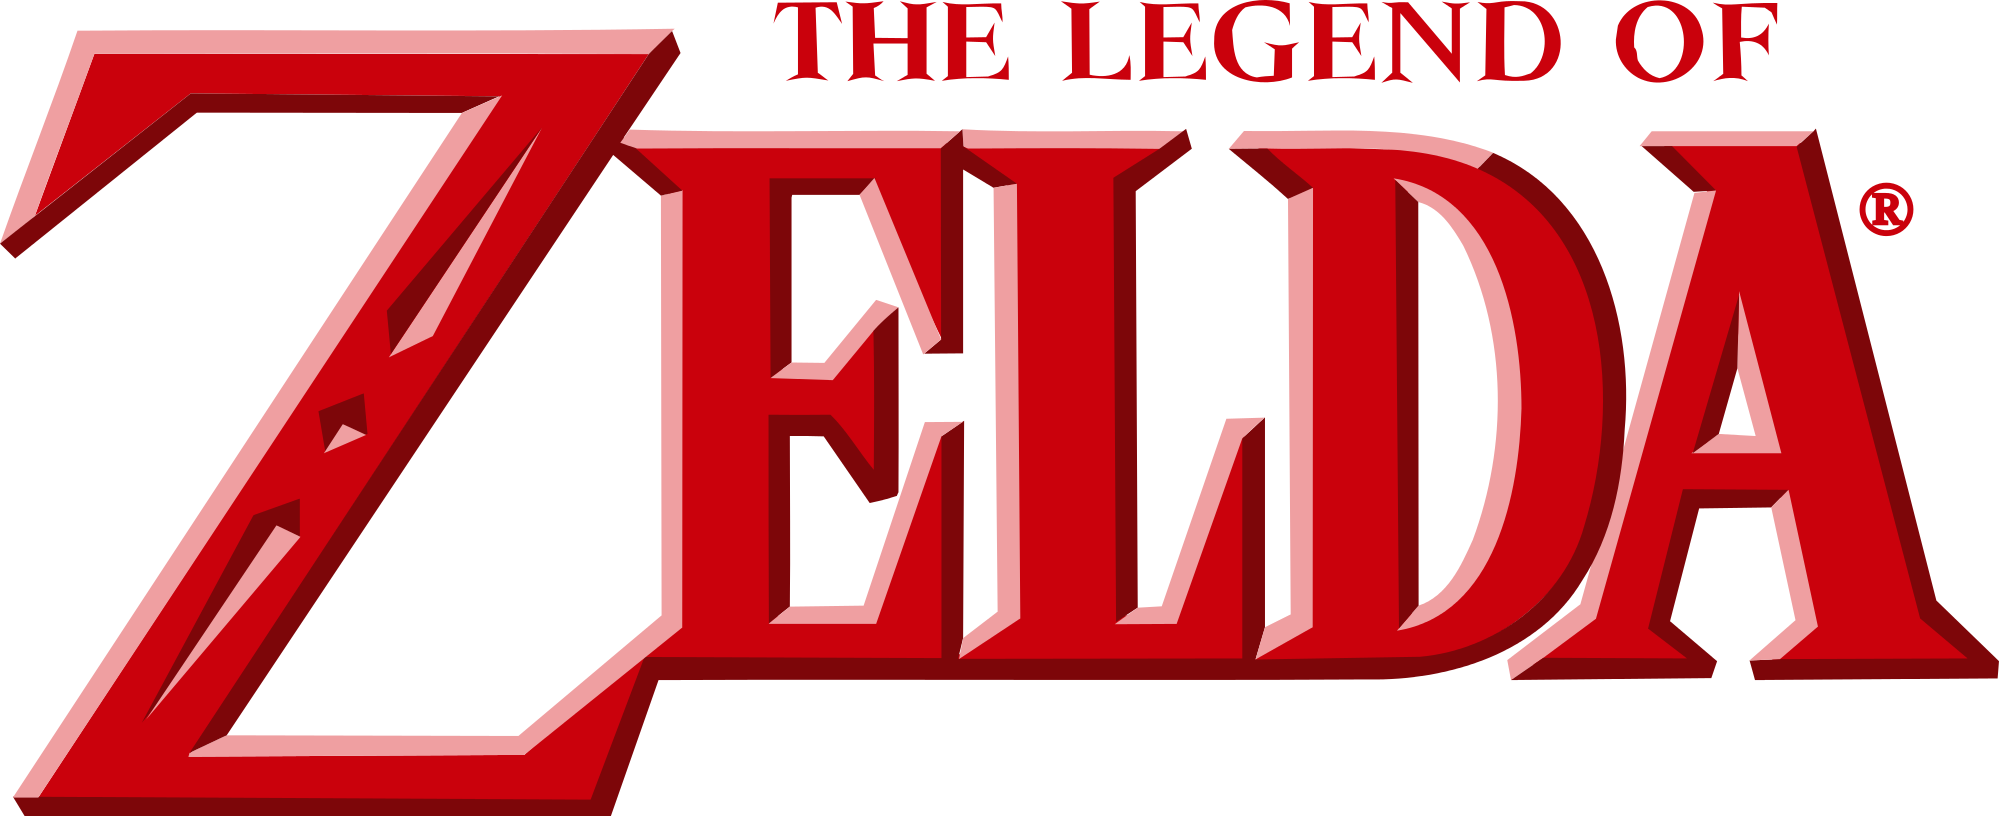
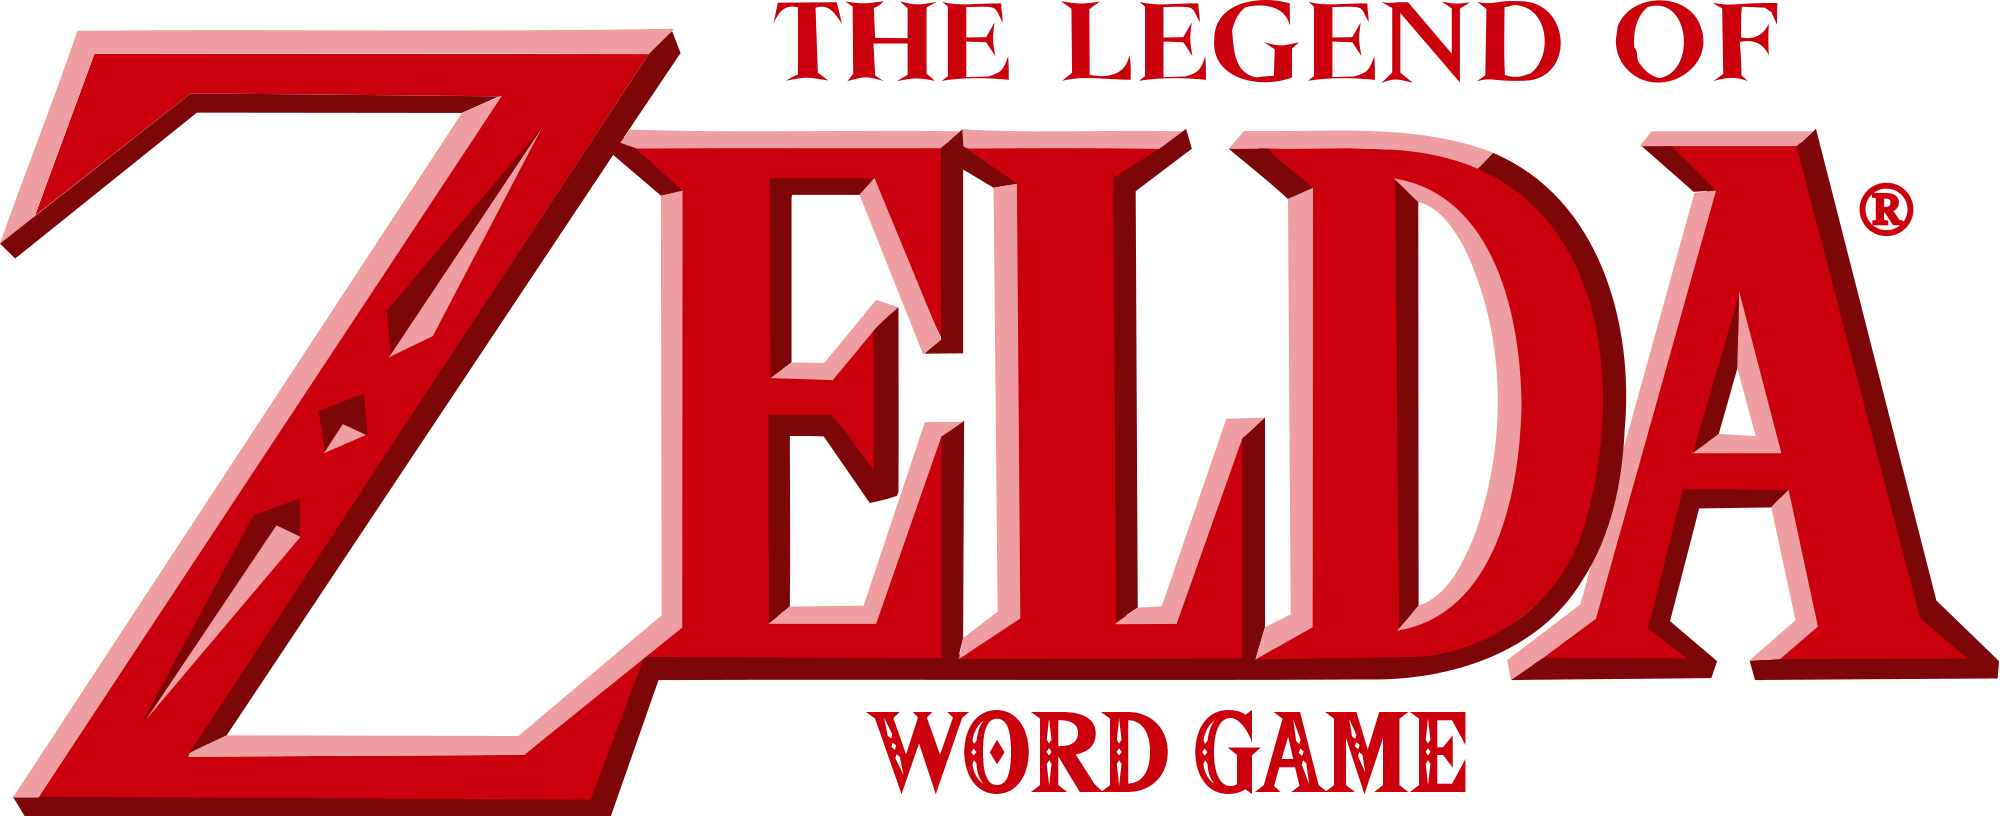
testing input

Changed region(s): [[0.434, 0.8578, 0.744, 0.9804]]

diff --git a/index.html b/index.html
@@ -14,20 +14,20 @@
 
 <body class="container">
     <header class="row">
-        <div class="col-md-8 col-centered">
+        <div class="col-lg-8 col-centered">
             <img src="assets/images/title.png" id="title-pic">
         </div>
     </header>
 
     <div class="row">
-        <div class="col-md-8 col-centered">
+        <div class="col-lg-8 col-centered">
             <div class="row">
-                <section class="col-md-6">
+                <section class="col-lg-6">
                     <div class="row">
-                        <div class="col-md-12" id="hearts">
+                        <div class="col-lg-12" id="hearts">
                         </div>
                         <div class="row">
-                            <div class="col-md-12">
+                            <div class="col-lg-12">
                                 <img src="assets/images/link.gif">
                             </div>
                         </div>
@@ -35,7 +35,7 @@
                 </section>
 
 
-                <section class="col-md-6">
+                <section class="col-lg-6">
                     <div>
                         <p>GUESS THE WORD TO SAVE PRINCESS ZELDA!</p>
                     </div>
@@ -51,13 +51,14 @@
                     <div>
                         LOSSES: <span id="losses-number"></span>
                     </div>
+                    <input>
                 </section>
             </div>
         </div>
     </div>
 
     <div class="row">
-        <div class="col-md-8 col-centered">
+        <div class="col-lg-8 col-centered">
             <p id="end-game"></p>
             <p id="again"></p>
         </div>

diff --git a/assets/css/style.css b/assets/css/style.css
@@ -7,14 +7,25 @@ body {
     background-image: url(../images/hyrule.jpg);
     background-size: cover;
     font-family: zeldaFont;    
-    font-size: 26px;    
+    font-size: 26px;
+    text-shadow: -1px 0 white, 0 1px white, 1px 0 white, 0 -1px white;    
     text-align: center;
 }
 
 #title-pic {
     width: 100%;
     height: auto;
+    position: relative;
 }
+
+#title-add {
+    position: absolute;
+    right: 25%;
+    bottom: -5%;
+    color: #ca000c;
+    font-size: xx-large;
+    text-shadow: none;
+    }
 
 .col-centered {
     float: none;
@@ -28,4 +39,17 @@ header {
 #hearts-img {
     width: 100%;
     height: auto;
+}
+
+#again-btn {
+    background-image: url(../images/parch.jpg);
+    border: 1px solid black;
+}
+
+#again-btn:hover {
+    border: 1px solid gray;
+}
+
+input {
+    opacity: 0;
 }

diff --git a/assets/javascript/game.js b/assets/javascript/game.js
@@ -76,6 +76,7 @@ document.onkeyup = function (event) {
         newButton.textContent = "PLAY AGAIN?"
         targetAgain.appendChild(newButton);
         newButton.setAttribute("onclick", "reset()")
+        newButton.setAttribute("id", "again-btn")
     }
     if (guessesNumber === 0 && lossCondition == false) {
         losses++
@@ -85,6 +86,7 @@ document.onkeyup = function (event) {
         newButton.textContent = "PLAY AGAIN?"
         targetAgain.appendChild(newButton);
         newButton.setAttribute("onclick", "reset()")
+        newButton.setAttribute("id", "again-btn")
     }
 
 
